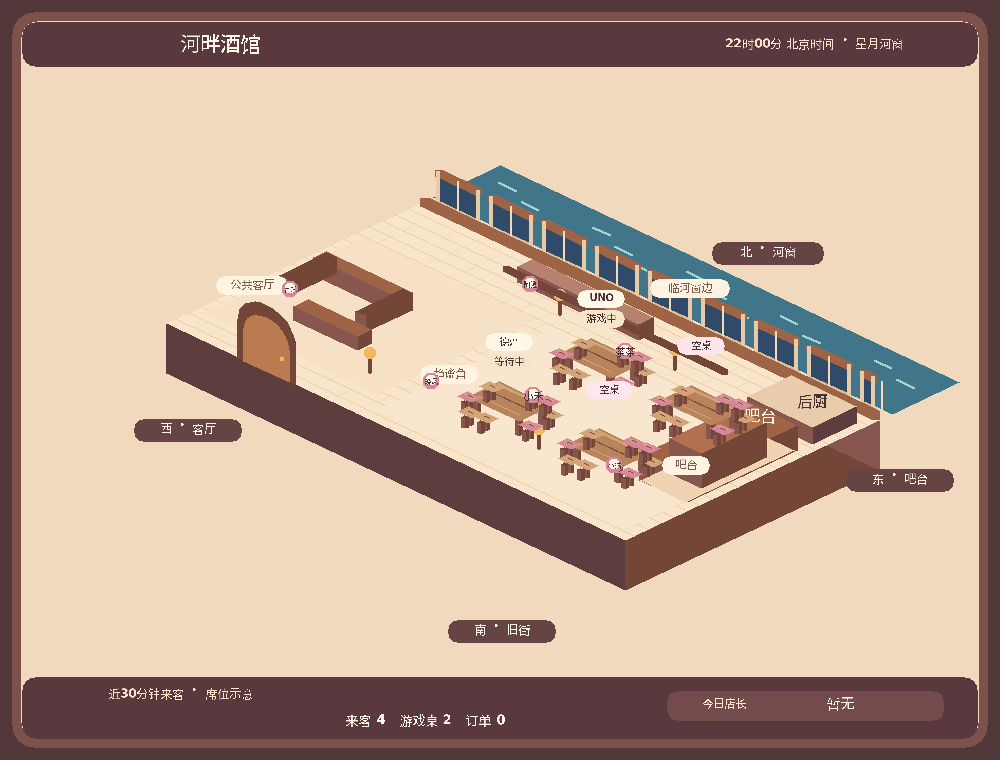
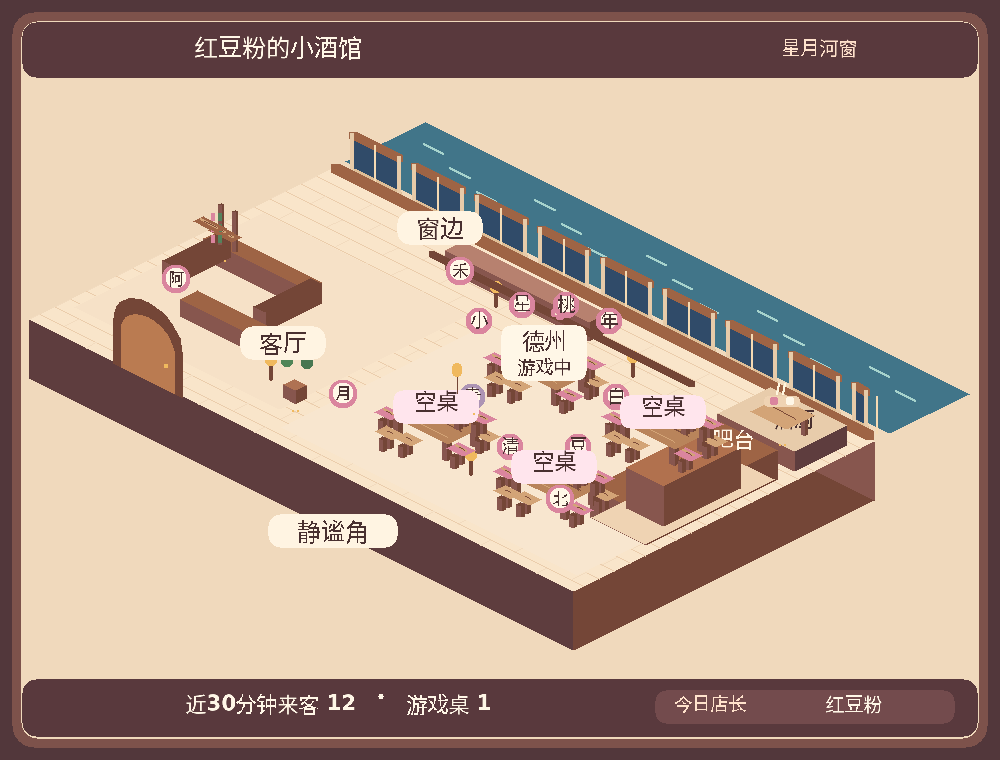
fix(tavern): improve mobile map readability (beta.41)
Enlarge the camera, region signs and player initials; keep each table label on its own table. Add a private lossless PNG view without changing saved locations or the public lobby.

Validation: 372 full serial checks pass; 25 affected checks pass after final label correction. All 81 production modules match readback.

diff --git a/PROJECT_HANDOFF.md b/PROJECT_HANDOFF.md
@@ -22,18 +22,18 @@
 
 ## 3. 当前基线与下一步
 
-> beta.40 已发布实际操作驱动的玩家区域与持久化桌槽：大厅「换个位置」私密选择四区；点单去吧台，真实牌局优先，离桌恢复选择。beta.39统一大厅/家具视觉保留；家具换款入口仍未实现。最终证据见PROJECT_STATE顶部。
+> beta.41 已发布手机地图清晰度修订：建筑放大居中，关键标牌/首字头像放大，桌牌贴回对应桌面；新增「清晰原图」私密PNG入口。beta.40四区位置/牌局优先/稳定桌槽及beta.39大厅视觉保留。家具换款入口仍未实现，最终证据见PROJECT_STATE顶部。
 
-> 当前以beta.40发布证据为准。20款常驻菜品图在beta.37完成，不能再按旧4 ready/17 planned重复生成。用户新要求动态游戏式酒馆地图及稳定建筑，已实现并发布。
+> 当前以beta.41发布证据为准。20款常驻菜品图在beta.37完成，不能再按旧4 ready/17 planned重复生成。用户新要求动态游戏式酒馆地图及稳定建筑，已实现并发布。
 
 | 项目 | 当前状态 |
 |---|---|
-| 代码版本 | 1.0.1-beta.40；指令schema仍games-v1.0.1-beta.38 |
+| 代码版本 | 1.0.1-beta.41；指令schema仍games-v1.0.1-beta.38 |
 | GitHub | 本批代码、测试、建筑标准、地图标准、昼夜/动态演示和交接整批提交main，实际提交以main最新记录为准 |
-| 生产部署 | 536650ab-3499-412c-a8da-9d3142080941，100%流量；81模块读回一致，原绑定/人设/迁移/兼容日期/Cron保留 |
-| 检查 | 完整串行370项通过，包含私密选位、同消息GIF更新、重启与稳定桌槽；严格GIF四帧LZW解码与模拟日夜画面核验通过 |
+| 生产部署 | 45f8056a-74fa-4e14-95f3-290e1411b2c8，100%流量；81模块读回一致，原绑定/人设/迁移/兼容日期/Cron保留 |
+| 检查 | 完整串行372项通过，最终桌牌校正后25项相关回归通过；包含PNG私密入口、选位/GIF更新、重启与桌槽；严格GIF四帧LZW解码与模拟日夜画面核验通过 |
 | 酒馆经营 | 钱包/游戏奖励/点单/常客卡、共同装修、每日店长、季节研发与活动保持 |
-| 大厅地图 | 等距切面建筑+四帧河光/灯光/茶气；实际事件2秒合并更新原消息，日暮夜与真实过期单次alarm；无持续轮询；beta.39统一视觉/首次文字打开即带图；beta.40玩家四区、实际牌局优先、稳定桌槽 |
+| 大厅地图 | 等距切面建筑+四帧河光/灯光/茶气；实际事件2秒合并更新原消息，日暮夜与真实过期单次alarm；无持续轮询；beta.39统一视觉/首次文字打开即带图；beta.40玩家四区/稳定桌槽；beta.41手机放大布局与清晰原图 |
 | 建筑来源 | tavern-building.mjs唯一空间来源；TAVERN_BUILDING_SPEC.md给出方位、材料、24物件锚点和未来生图段落 |
 | 图片 | 全部20款常驻菜品图+1氛围图保持原JPEG/v1地址；后续酒馆场景必须符合新建筑标准 |
 | 待真人验证 | Discord动画/布局、事件与日界刷新；本批发布后窄范围HTTP探测200；Discord选位/动画及地图alarm、渲染负载仍待真人验证 |

diff --git a/PROJECT_STATE.md b/PROJECT_STATE.md
@@ -1,3 +1,12 @@
+## beta.41 · 手机地图清晰度修订（2026-10-09）
+
+- 用户反馈地图不清楚，两名Luna分别改绘图和私密PNG入口；主agent复看400/320模拟缩略、修复桌牌漂到客厅/河窗的关联问题并增加回归，整批发布。
+- 画布仍1000×760；相机从(420,203,.54,.255,.72)调整为(330,169,.64,.32,.84)，世界房间/门窗/吧台/桌位/24陈设锚点不变。地板投影宽约713→845px，可见建筑包络约x29..969。区名11→24px；桌名10→22px、阶段18px，窄牌签放在对应桌面中心上方，避免浮到其他房间。桌边头像18px/区域16px，显示昵称首个Unicode字符，保持8席、bot颜色与ID去重；删除重复方位HUD和细小陈设长列表。昵称和贡献详情仍从既有入口查看。
+- 大厅第3行新增第5按钮「🔍 清晰原图」。公共点击defer5 flags64返回本人无损PNG，刷新用本人按钮type6更新原私密回复；不覆盖公共大厅、不登记私人图为大厅、不建钱包、不改变选位。大厅GIF保持4帧，ROI重算覆盖新投影所有河光/灯光/茶气，渲染版本riverside-mobile-readable-v2使旧缓存失效。
+- 完整串行372项全部通过；最终桌牌修正后追加6个受影响文件共25项全部通过，含新增桌牌应靠近对应桌位的用例（当前共373用例，未重复全套）。签名PNG入口覆盖本人/跨guild、PNG字节、窗边位置保留、无钱包、原私密回复与公共绑定不变。日夜/GIF及320/400缩略均为四区虚构来客、8人桌与已购陈设样例；字体/边界/桌牌归属本地复看。GIF样例93307字节；320宽下人物首字仍小，不能承诺客户端所有头像文字可辨。
+- Cloudflare上传HTTP200，2026-10-09T10:03:07.076074Z发布；版本45f8056a-74fa-4e14-95f3-290e1411b2c8承接100%流量，部署2a10548c-aec1-46aa-a8dc-6e9f9752e7b5。81模块读回全部匹配；仅4个运行模块改动，其余核验并复用beta.40线上基线。原Secrets、D1、DO、人设1708/1641、兼容日期2026-10-07、迁移v1及每分钟Cron保留。package 1.0.1-beta.41，指令schema仍games-v1.0.1-beta.38，无需重新注册。
+- 发布后/health HTTP200，仅证明端点可访问。未发送Discord测试消息或写生产模拟访客/订单/钱包。Discord真实裁切、动画/位置变更和长期负载仍待真人验证。代码、测试、标准、模拟图与交接整批同步GitHub main，最终提交以远端最新记录为准。
+
 ## beta.40 · 玩家区域与稳定牌桌位置（2026-10-09）
 
 - 用户确认实际操作驱动玩家区域，并要求Luna辅助。两名Luna分别实现SQLite位置/桌槽与地图绘制，补实际签名交互回归；主agent接入点单、常客卡、私密选位与同消息实时刷新，并完成发布。

diff --git a/TAVERN_BUILDING_SPEC.md b/TAVERN_BUILDING_SPEC.md
@@ -1,6 +1,6 @@
 # 红豆粉小酒馆建筑标准
 
-`tavern-building.mjs` 是场景、装修物件和未来图片生成共用的唯一空间来源。地图固定使用 1000×760 画布，建筑世界坐标是 850×470；x 从西向东，y 从北向南。投影为 `screenX = 420 + (x-y)×0.54`、`screenY = 203 + (x+y)×0.255 - z×0.72`。北侧河面玻璃与灯光微粒必须取同一投影后的建筑区域坐标，不能画到河面或墙体范围外。因此任何新增区域或物件都按同一三分之四视角落位。
+`tavern-building.mjs` 是场景、装修物件和未来图片生成共用的唯一空间来源。地图固定使用 1000×760 画布，建筑世界坐标是 850×470；x 从西向东，y 从北向南。投影为 `screenX = 330 + (x-y)×0.64`、`screenY = 169 + (x+y)×0.32 - z×0.84`。北侧河面玻璃与灯光微粒必须取同一投影后的建筑区域坐标，不能画到河面或墙体范围外。因此任何新增区域或物件都按同一三分之四视角落位。
 
 | 方位 | 固定建筑内容 | 锚点（世界坐标） |
 |---|---|---|
@@ -31,3 +31,7 @@
 - visitorAreas 定义吧台3席、窗边5席、安静角落3席、客厅5席，所有示意点使用同一投影并位于大厅内；容量以上显示同区域真实人数汇总。区域按程序确认操作和明确选择决定，席位内按成员ID稳定排列；禁止随机走动或伪造来客。
 - 地图位置单独持久化。点单去吧台；大厅「换个位置」和常客卡座位选择同步区域。查看钱包、卡片、口味设置、聊天、刷新不会挪位。实际活跃牌局优先，离桌恢复保存区域；仅开游戏列表不占桌。
 - 四桌坐标不改，通过持久化displaySlot固定实际牌局的图上桌位，关闭/过期再释放。GIF继续播放环境动画，人物只在真实事件快照刷新时改变位置，不包含走路补间。
+
+## 手机可读性（beta.41）
+
+相机放大并居中，建筑世界尺寸、房间和24件陈设锚点不变。区名24px、牌桌名22px、阶段18px，人物使用昵称首字圆徽标，保留实际8席与真人/电脑区分；具体昵称、捐赠和等级详情从既有功能入口查看。地图删除重复方位牌和细小陈设名单，320/400宽模拟缩略审阅布局。大厅仍用四帧环境GIF，「清晰原图」提供本人可见的无损PNG，可点开放大，刷新不挪位置、不创建钱包或替换公共大厅。

diff --git a/TAVERN_MAP_SPEC.md b/TAVERN_MAP_SPEC.md
@@ -1,8 +1,9 @@
-# 酒馆动态地图 · beta.40
+# 酒馆动态地图 · beta.41
 
 大厅和“店内地图”共用程序实时快照和固定等距建筑，不调用模型绘制。建筑布局、投影、材料、装修锚点和未来生成图片规则见[TAVERN_BUILDING_SPEC.md](TAVERN_BUILDING_SPEC.md)；唯一空间数据源为tavern-building.mjs。
 
 - 入口：/酒馆 大厅或@红豆粉“打开酒馆”。大厅以地图为主图，HUD显示近30分钟客流、桌况、店长、研发、活动和建设。原点单、游戏、装修、钱包、常客卡和经营按钮保留；私人服务保持本人可见，离开地图清除场景附件。
+- 移动端：放大建筑与区名/桌名，用首字头像代替7-10px小昵称，减少重复方位和细小陈设列表；大厅环境GIF保持。大厅「清晰原图」私密提供无损PNG，支持原窗口刷新，点击图片可放大；不创建钱包、不重置所选区域、不会覆盖或登记私人消息为公共大厅。
 - 固定格局：北河长窗、南街拱门、东吧台/后厨、西客厅、东南四桌。空桌明确标注；24个装修ID及等级对应固定锚点，只画真实已购陈设。北露台与东附楼预留供以后扩建，不能画成已拥有区域。
 - 默认四帧GIF循环河面微光、灯光轻闪和已购茶台热气；1000×760，首帧全图，后三帧更新局部。北京06:00日景、17:00暮景、20:00夜景。环境动画不代表人物持续移动或新的真人来访；快照直到事件/到期刷新才改变。
 - 客流是近30分钟实际酒馆交互、真实@聊天和公开牌桌活动，不是Discord在线名单；区域由实际操作决定，区域内席位仍是示意。机器人不计真人，牌桌玩家与普通来客去重。公开资料只用昵称、游戏、阶段、电脑标记和实际装修冠名，不含手牌、牌堆、余额、口味偏好或消息token。

diff --git a/docs/TAVERN_LOBBY_PREVIEW.md b/docs/TAVERN_LOBBY_PREVIEW.md
@@ -5,3 +5,8 @@
 - 动画：[tavern-lobby-preview.gif](tavern-lobby-preview.gif)
 - 白天：[tavern-map-day.png](tavern-map-day.png)
 - 夜晚：[tavern-map-night.png](tavern-map-night.png)
+
+移动端清晰度检查：本批另外将地图缩到320/400像素宽审阅关键区域、牌桌和人物标识。大厅保留动态GIF；「清晰原图」提供本人可见的无损PNG，点击图片可放大。模拟缩略不能替代Discord客户端实测。
+
+- [400像素宽模拟缩略](tavern-map-mobile-400.png)
+- [320像素宽模拟缩略](tavern-map-mobile-320.png)
